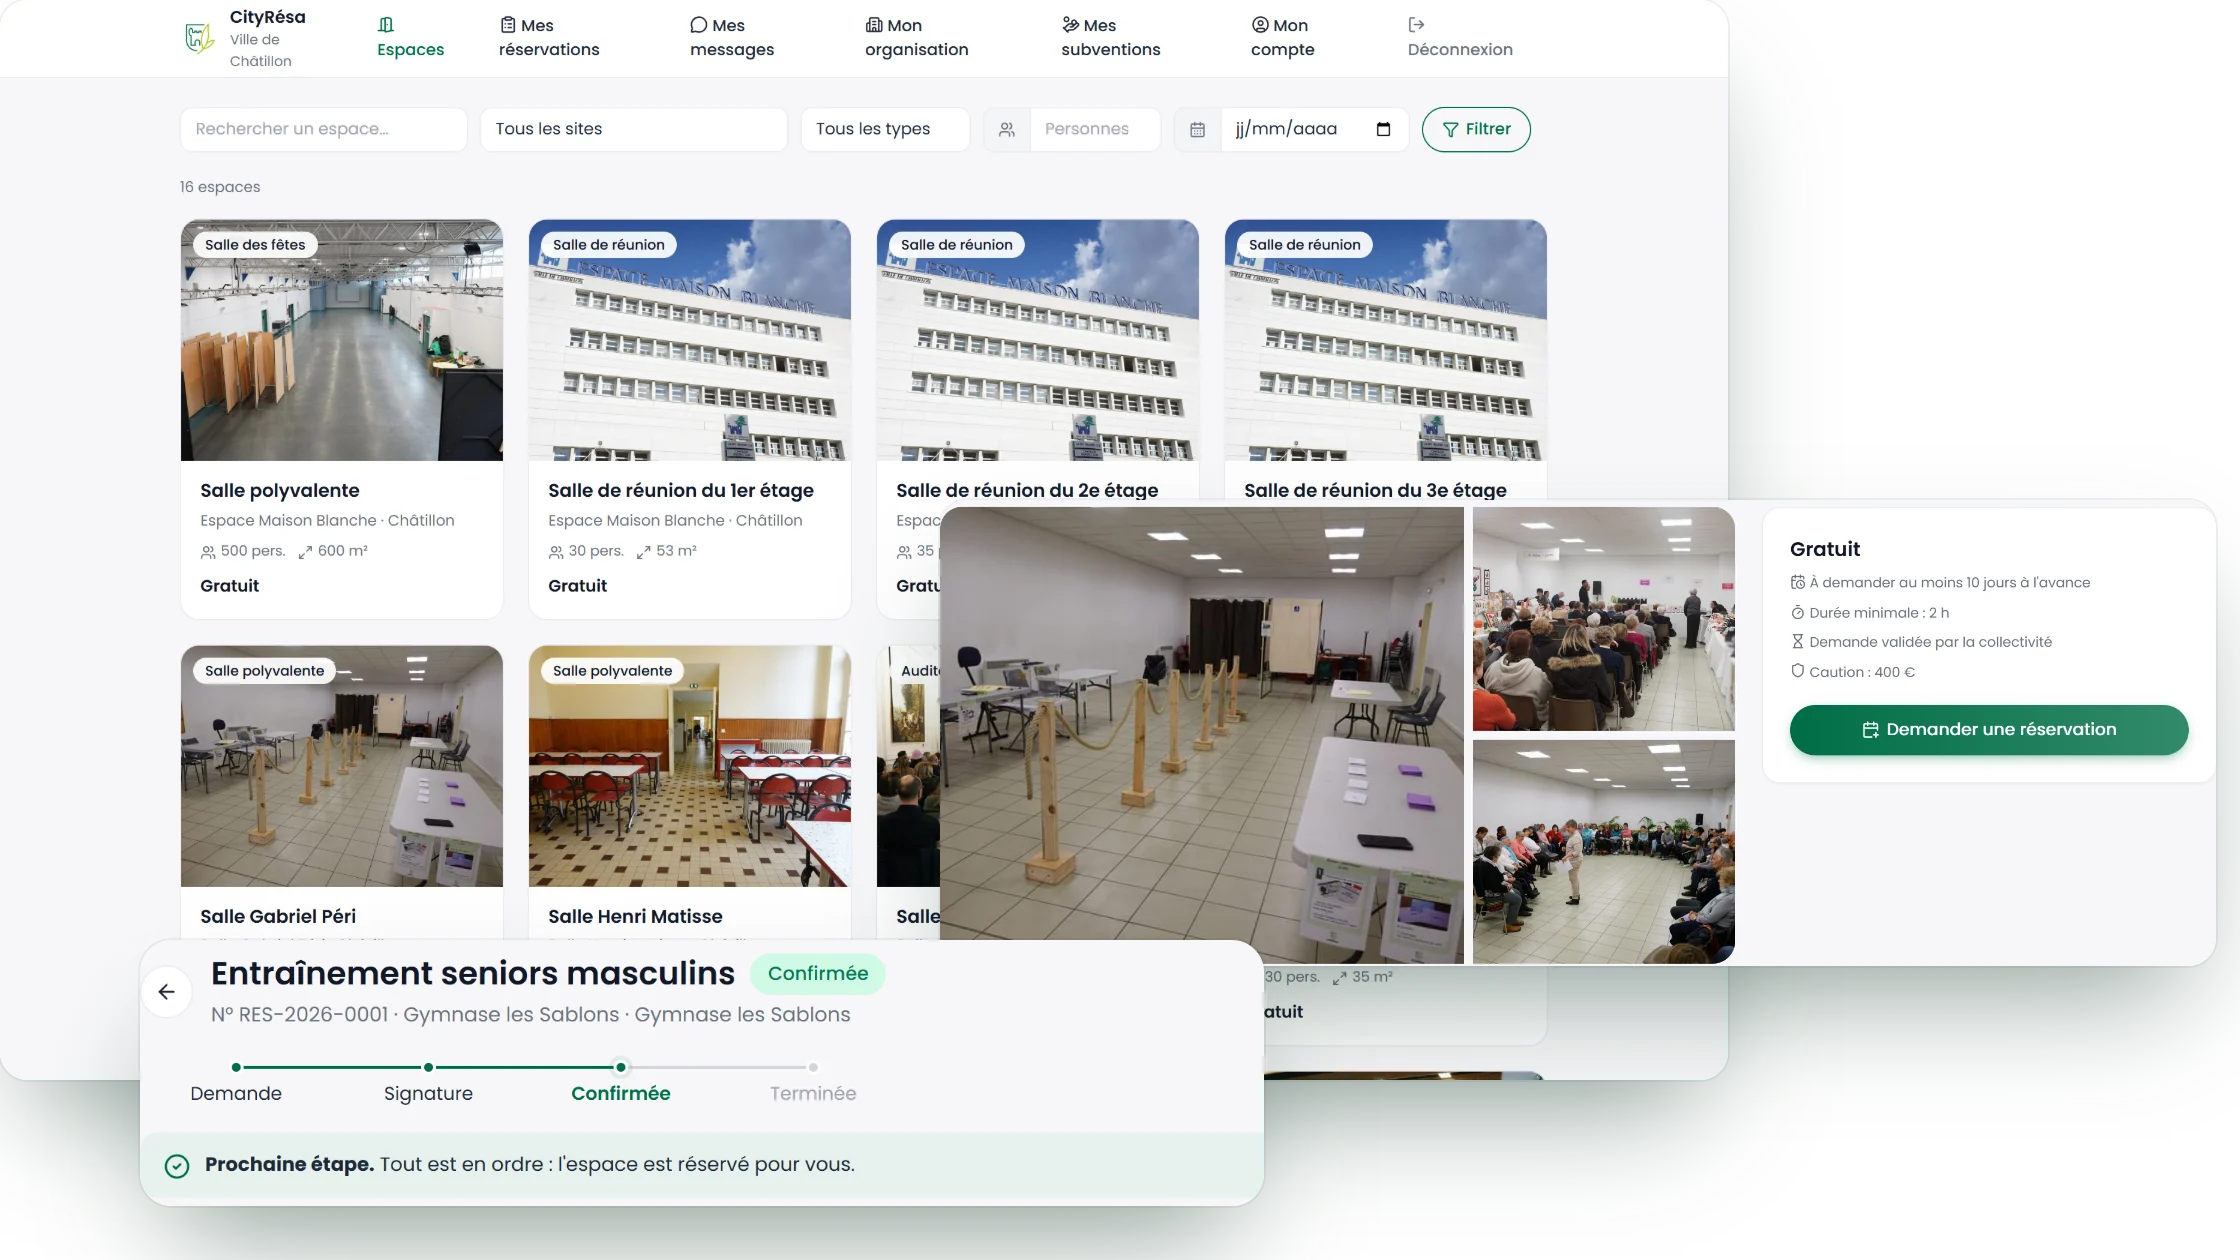
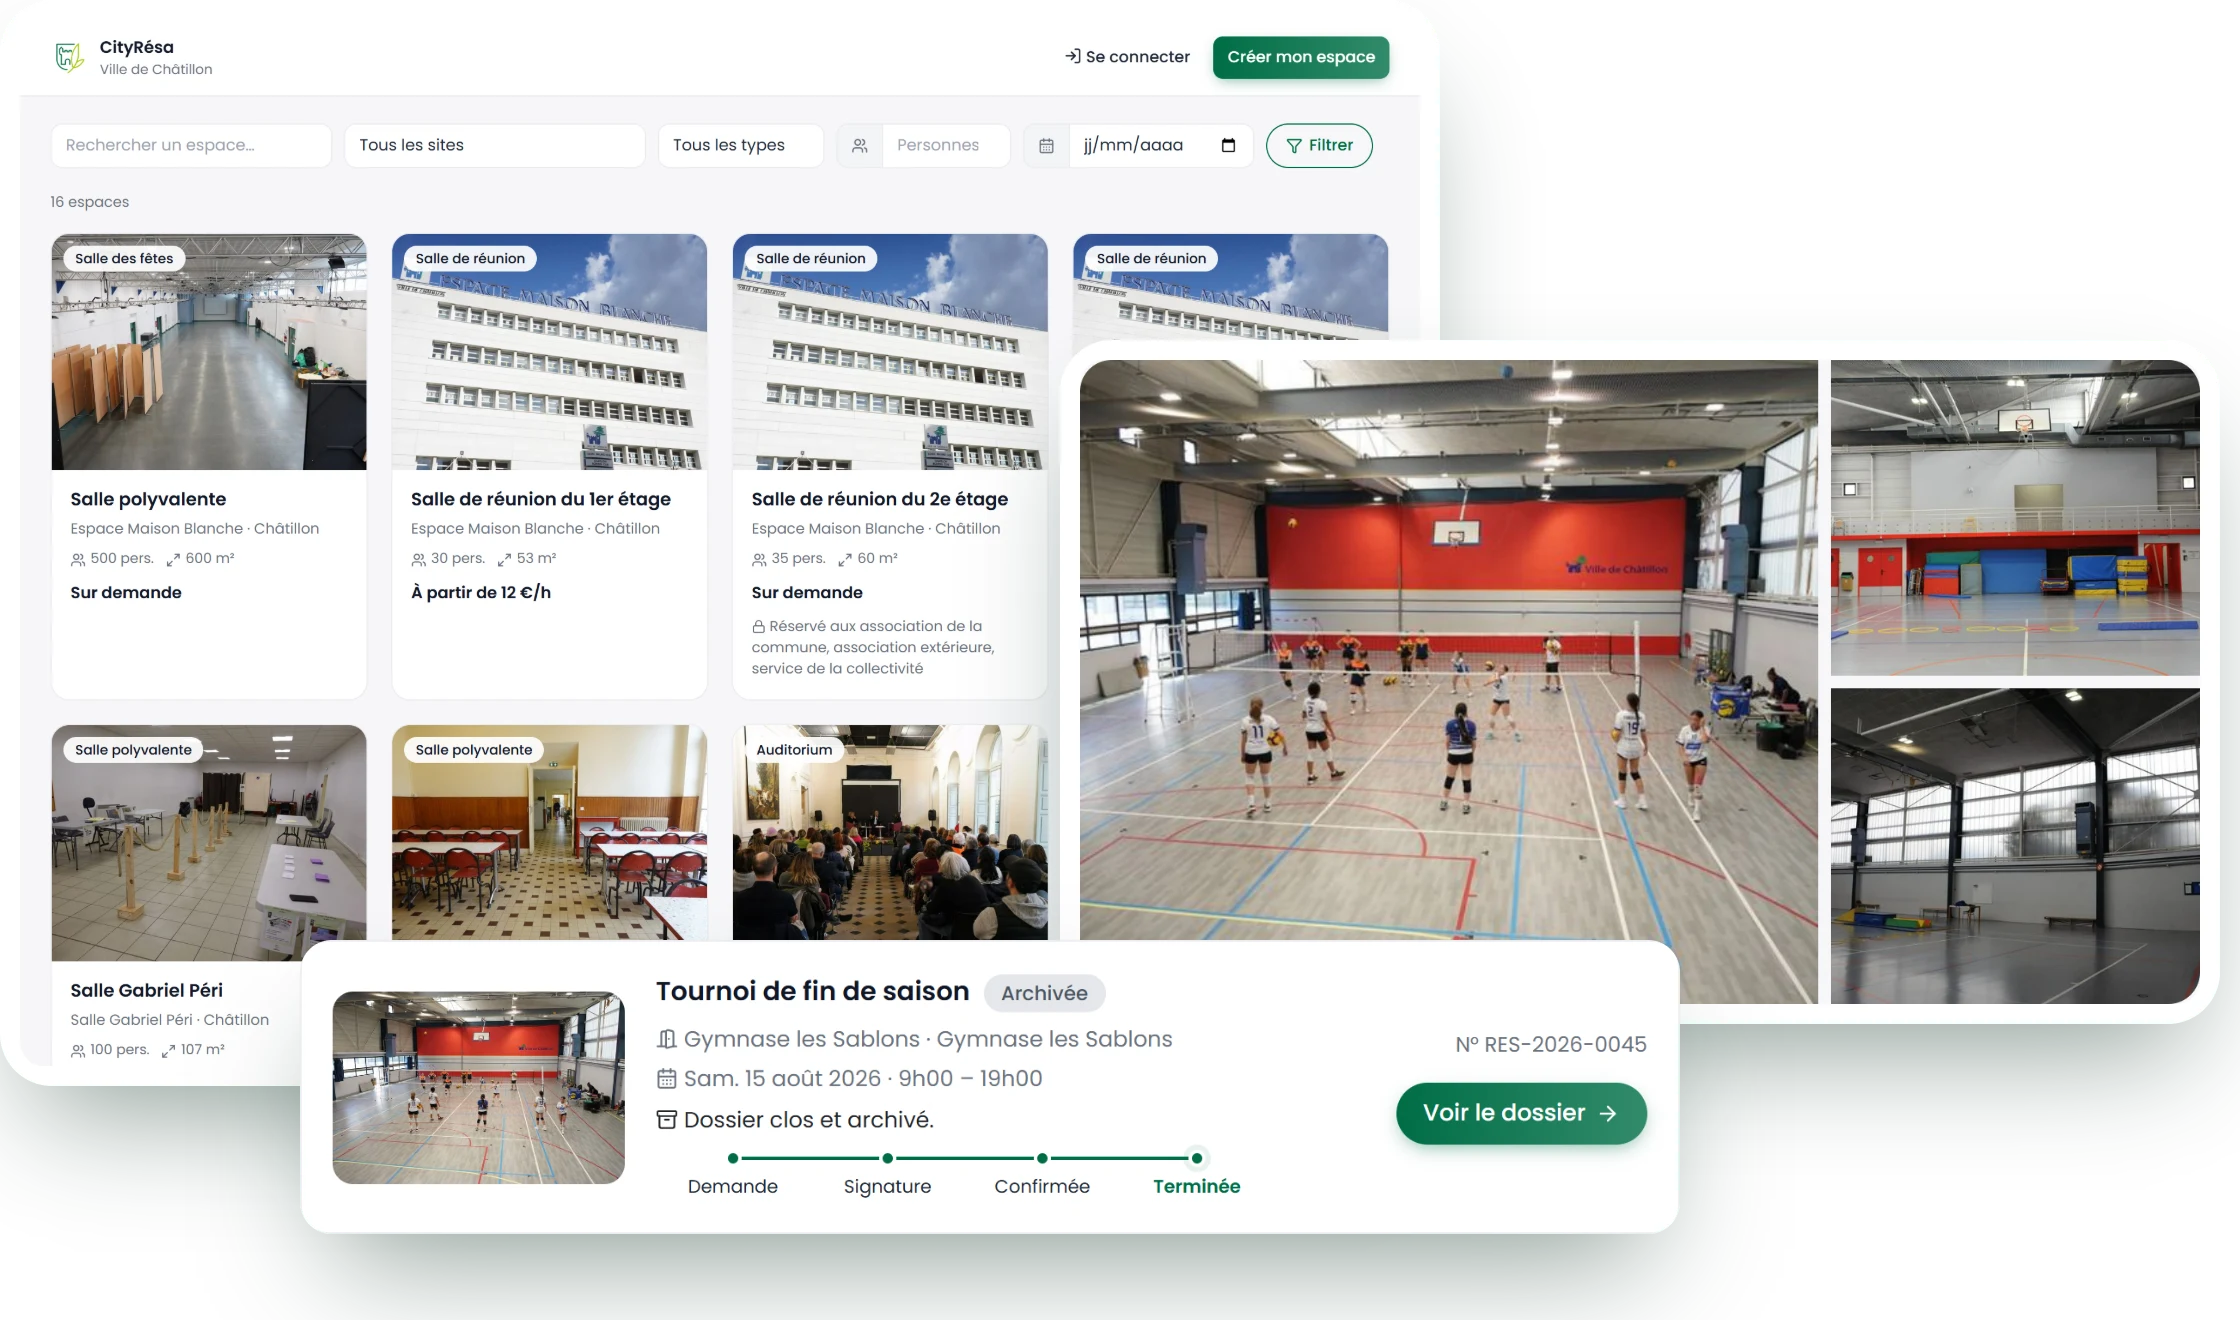
Illustration de connexion : catalogue, galerie d'un gymnase et carte de réservation
Trois éléments du portail en cascade, coins arrondis, cadre blanc autour du
catalogue et de la galerie ; le script pnpm illustration capture désormais ces
éléments (catalogue défilé, galerie du gymnase les Sablons, carte d'une
réservation archivée vue par l'usager de démo) avant de les composer.

diff --git a/src/components/visuel-connexion.tsx b/src/components/visuel-connexion.tsx
@@ -9,10 +9,10 @@ export function VisuelConnexion({ titre, texte }: { titre: string; texte: string
     <div className="login-visuel">
       <img
         src="/img/illustration-cityresa.webp"
-        alt="Aperçu du portail CityRésa : catalogue des espaces, fiche d’une salle et suivi d’une réservation"
+        alt="Aperçu du portail CityRésa : catalogue des espaces, photos d’un gymnase et suivi d’une réservation"
         className="login-illustration"
         width={2240}
-        height={1260}
+        height={1320}
       />
       <div className="accroche">
         <h2>{titre}</h2>

diff --git a/src/app/(portail)/portail/page.tsx b/src/app/(portail)/portail/page.tsx
@@ -91,7 +91,7 @@ export default async function CataloguePage({
           alt=""
           className="hero-illustration"
           width={2240}
-          height={1260}
+          height={1320}
         />
         <div>
           <h1>{cfg.PORTAIL_TITRE}</h1>
